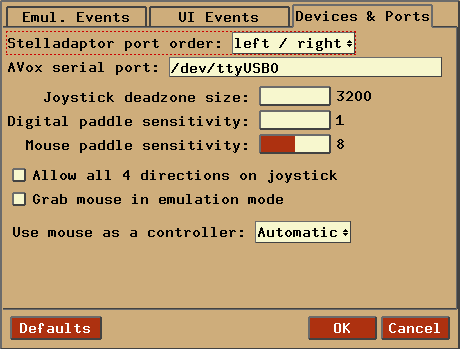
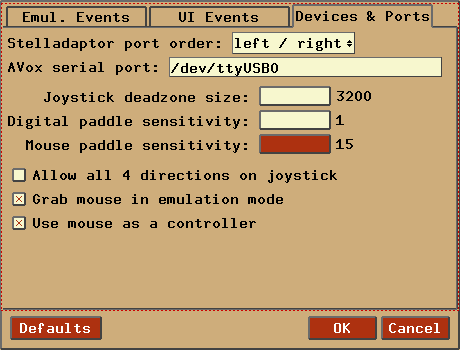
Oops, forgot to mention that 'mcontrol' commandline argument has been replaced by 'usemouse' again.
git-svn-id: svn://svn.code.sf.net/p/stella/code/trunk@2445 8b62c5a3-ac7e-4cc8-8f21-d9a121418aba

diff --git a/docs/index.html b/docs/index.html
@@ -1942,9 +1942,8 @@
     </tr>
 
     <tr>
-      <td><pre>-mcontrol &lt;never|auto|rom&gt;</pre></td>
-      <td>Disable mouse input entirely, enable using the mouse axes for various controllers automatically (paddle, driving, etc),
-        or use the settings specified by the current ROM.</td>
+      <td><pre>-usemouse &lt;1|0&gt;</pre></td>
+      <td>Use mouse as a controller as specified by ROM properties.</td>
     </tr>
 
     <tr>
@@ -2535,7 +2534,7 @@
           <tr><td>Mouse paddle sensitivity</td><td>Sensitivity used when emulating a paddle using a mouse</td><td>-msense</td></tr>
           <tr><td>Allow all 4 ...</td><td>Allow all 4 joystick directions to be pressed simultaneously</td><td>-joyallow4</td></tr>
           <tr><td>Grab mouse ...</td><td>Keep mouse in window in emulation mode</td><td>-grabmouse</td></tr>
-          <tr><td>Use mouse as ...</td><td>Mouse axes are either automatically or specifically mapped to certain actions</td><td>-mcontrol</td></tr>
+          <tr><td>Use mouse as ...</td><td>Allow the mouse to emulate various controllers</td><td>-usemouse</td></tr>
         </table>
       </td>
     </tr>
